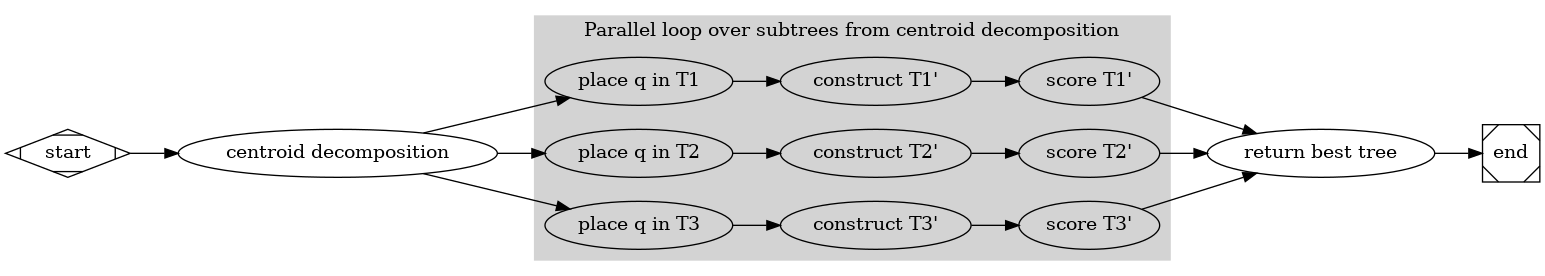
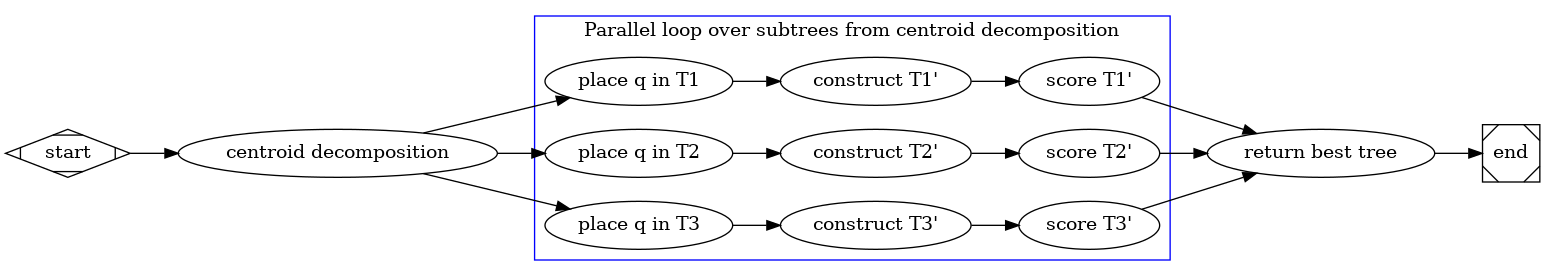
Alter graphviz graphs slightly

diff --git a/writeup/project.tex b/writeup/project.tex
@@ -71,6 +71,19 @@ each of the placement trees. Based on the location of the best score on
 the best subtree, the algorithm returns the corresponding location on
 the original backbone tree. Pseudocode for approach 1 is shown below in
 algorithm \ref{alg:approach1}.
+The pipeline for approach 1 is also shown below in figure \ref{fig:approach1-pipeline}.
+
+\begin{figure}[h]
+\centering
+\includegraphics[width=\textwidth]{Figs/pipeline1.png}
+\label{fig:approach1-pipeline}
+\caption{Pipeline for approach 1. Placements inside the parallel region over
+the sub trees identified by the centroid decomposition are evaluated
+using pplacer.
+The overall placement on the backbone trees is scored by the log-likelihood
+from running raxml-ng in fixed tree, fixed parameter mode.
+}
+\end{figure}
 
 \subsection{Approach 2}
 
@@ -101,6 +114,22 @@ fixed tree mode, is then chosen as the placement returned by the
 algorithm. Note also that the original placement, as determine by
 APPLES, is also included in this consideration. Pseudocode for approach
 2 is shown below in algorithm \ref{alg:approach2}.
+The pipeline for approach 2 is also shown below in figure \ref{fig:approach2-pipeline}.
+
+\begin{figure}[h]
+\centering
+\includegraphics[width=\textwidth]{Figs/pipeline2.png}
+\label{fig:approach2-pipeline}
+\caption{Pipeline for approach 2.
+APPLES is initially used to find a tentative placement for the query sequence.
+Random clades about the query placement are generated
+up to some provided fixed size.
+The query sequence is then placed in each clade
+using pplacer.
+The overall placement on the backbone trees is scored by the log-likelihood
+from running raxml-ng in fixed tree, fixed parameter mode.
+}
+\end{figure}
 
 \section{Data}
 
